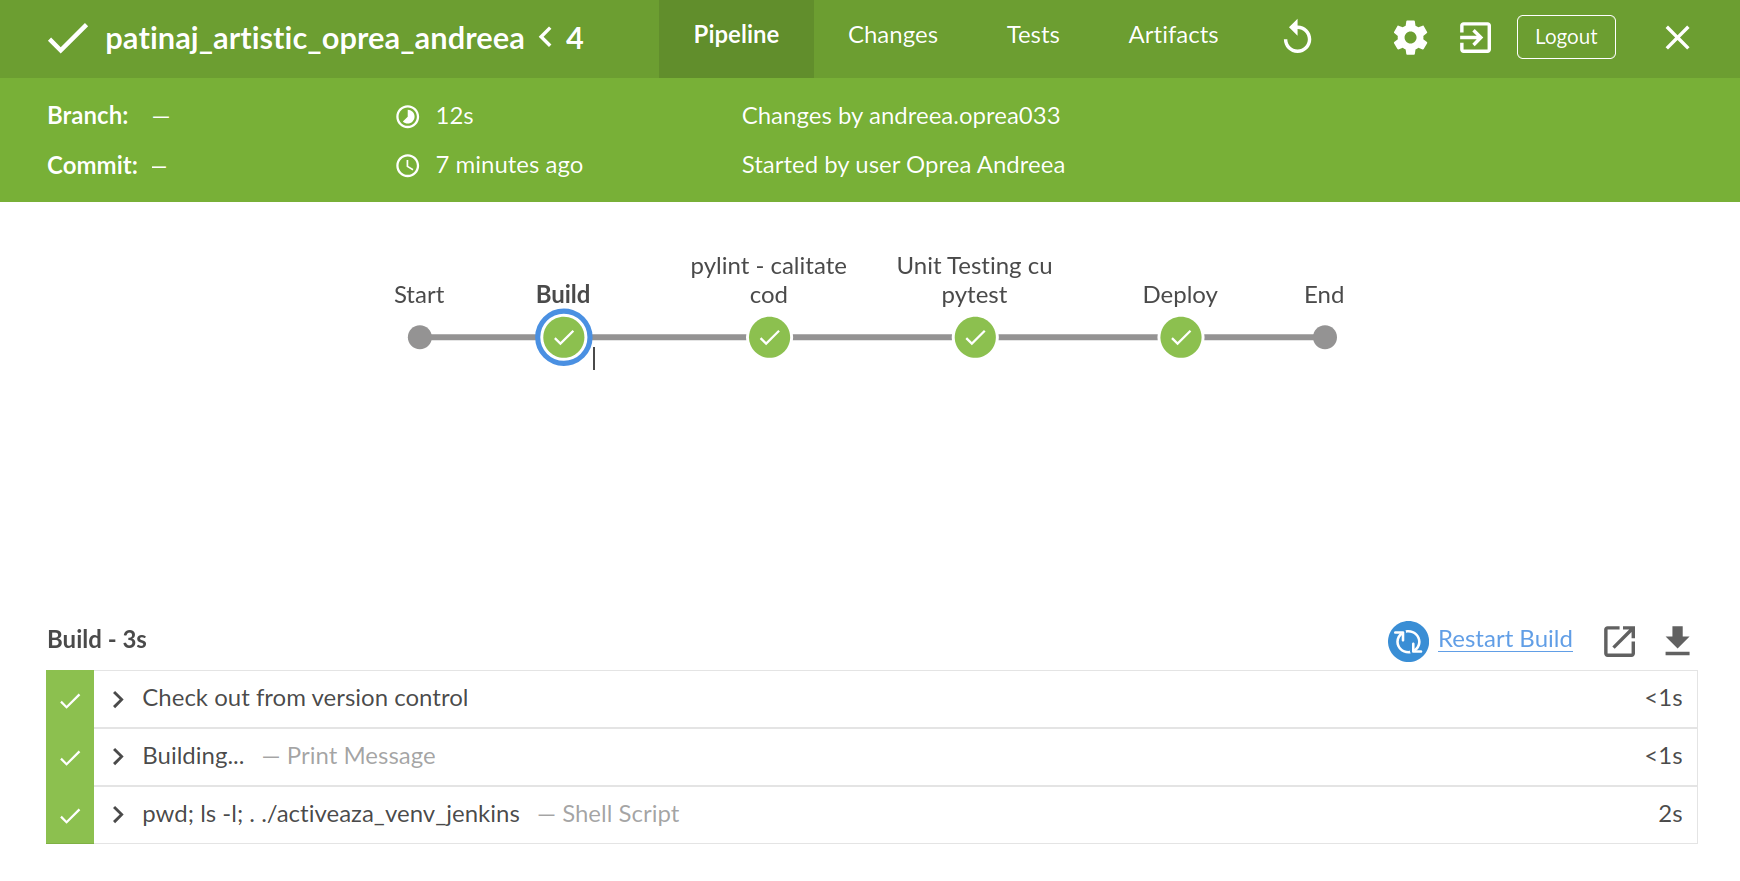
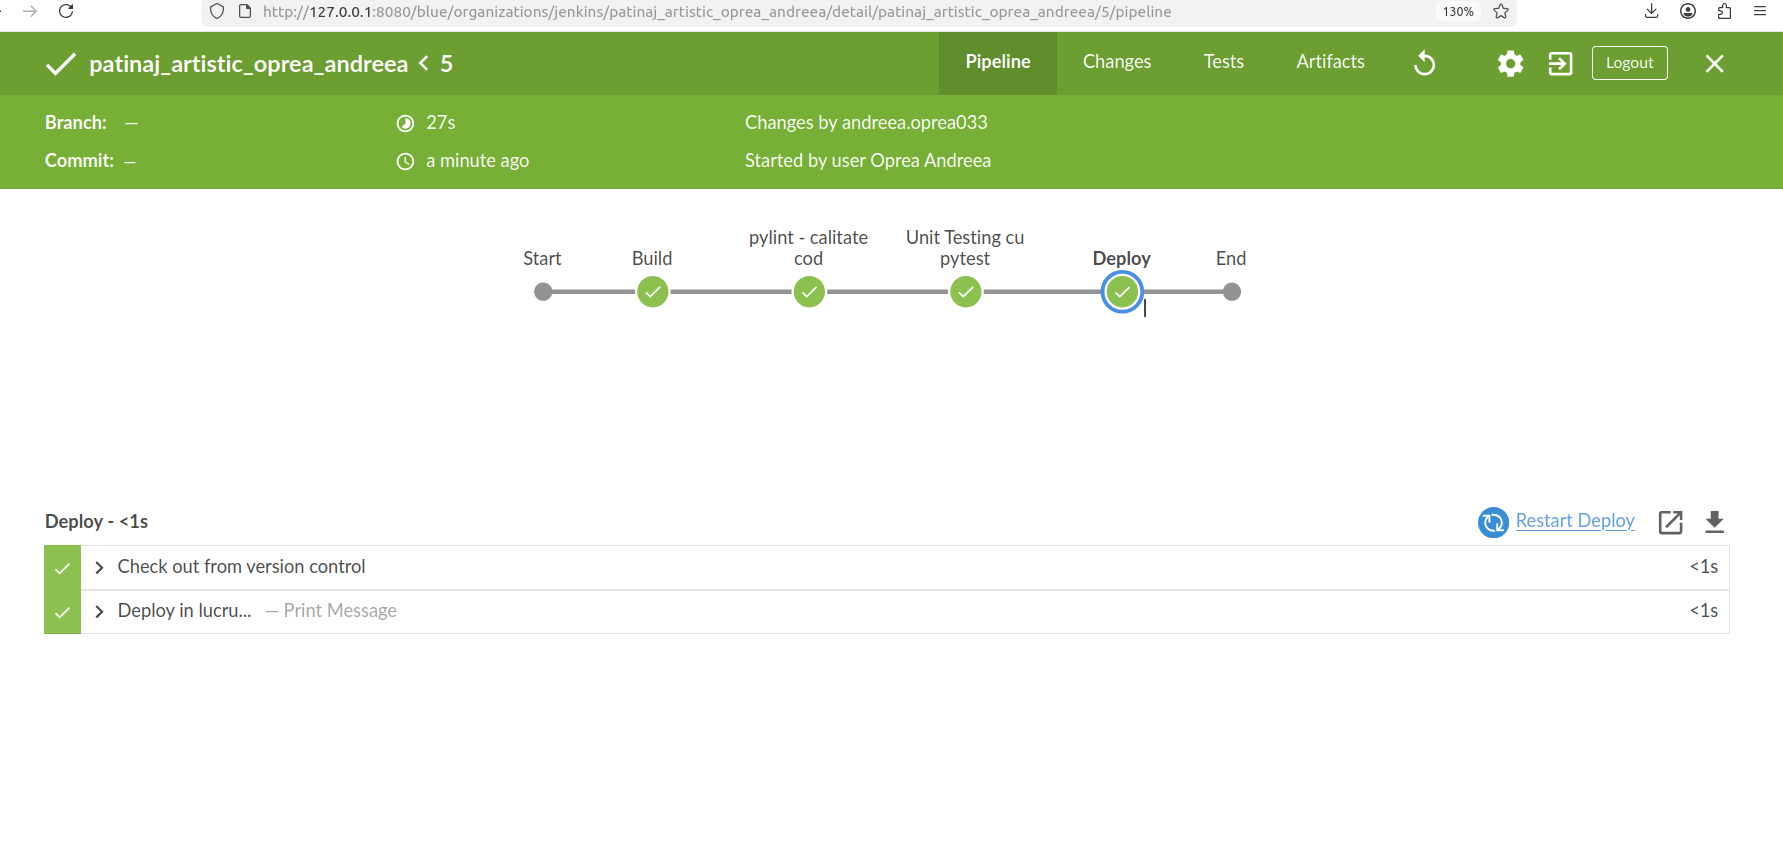
Finalizarea documentatiei + poze

diff --git a/README.md b/README.md
@@ -309,28 +309,48 @@ docker logs sporturi-patinaj-container
 
 ## DevOps CI — Jenkins
 
-Pipeline-ul este definit în fișierul `Jenkinsfile` și rulează automat pașii principali pentru verificarea aplicației.
+Pentru integrarea continuă am folosit Jenkins, pornit local din terminal:
 
-Job-ul Jenkins este configurat pe repository-ul proiectului și pe branch-ul:
+```bash
+java -jar /usr/share/java/jenkins.war
+```
+
+Interfața Jenkins a fost accesată în browser la:
+
+```text
+http://127.0.0.1:8080
+```
+
+Pipeline-ul este definit în fișierul `Jenkinsfile` și este configurat să preia codul din repository-ul GitHub, de pe branch-ul:
 
 ```text
 dev_oprea_andreea
 ```
 
-Etapele pipeline-ului sunt:
+Înainte de rularea pipeline-ului, modificările au fost încărcate pe GitHub prin `git add`, `git commit` și `git push`, deoarece Jenkins preia codul din repository, nu direct din directorul local.
+
+### Etape pipeline
 
 | Etapă | Descriere |
 |---|---|
 | Build | Creează mediul virtual `.venv` și instalează dependențele folosind `activeaza_venv_jenkins` |
-| pylint - calitate cod | Verifică static fișierele `app/lib/*.py`, `app/test/*.py` și `sporturi.py` |
+| pylint - calitate cod | Rulează verificarea statică pentru `app/lib/*.py`, `app/test/*.py` și `sporturi.py` |
 | Unit Testing cu pytest | Rulează testele automate; rezultatul obținut este `4 passed` |
 | Deploy | Etapă demonstrativă pentru finalizarea pipeline-ului |
 
-Pipeline-ul a fost rulat cu succes în Jenkins. Pentru vizualizare a fost folosit și Blue Ocean, unde se văd toate etapele finalizate cu succes.
+Pipeline-ul a rulat cu succes, iar Jenkins a preluat ultimul commit de pe branch-ul `dev_oprea_andreea`.
 
-Captură Jenkins / Blue Ocean:
+### Rezultat Jenkins - interfața clasică
 
-![Jenkins pass](doc/screenshots/testare_j.png)
+În interfața clasică Jenkins se observă build-ul executat cu succes, repository-ul folosit și commit-ul testat.
+
+![Jenkins clasic](doc/screenshots/jenkins.png)
+
+### Rezultat Jenkins - Blue Ocean
+
+Pentru o vizualizare mai clară am folosit și Blue Ocean. În această interfață se văd etapele pipeline-ului, toate finalizate cu succes.
+
+![Jenkins Blue Ocean](doc/screenshots/testare_j.png)
 
 ---
 
@@ -352,6 +372,13 @@ Branch-uri folosite:
 | `dev_oprea_andreea` | Branch personal de dezvoltare |
 | `main_oprea_andreea` | Branch personal principal |
 | `main` | Branch comun al grupei |
+
+PR #1 dev_oprea_andreea → main_oprea_andreea (intermediar)
+
+Pull Request verificat:
+
+```text
+PR #9 — TagaAndrei — Aplicatie Web Ciclism
 
 ---
 
